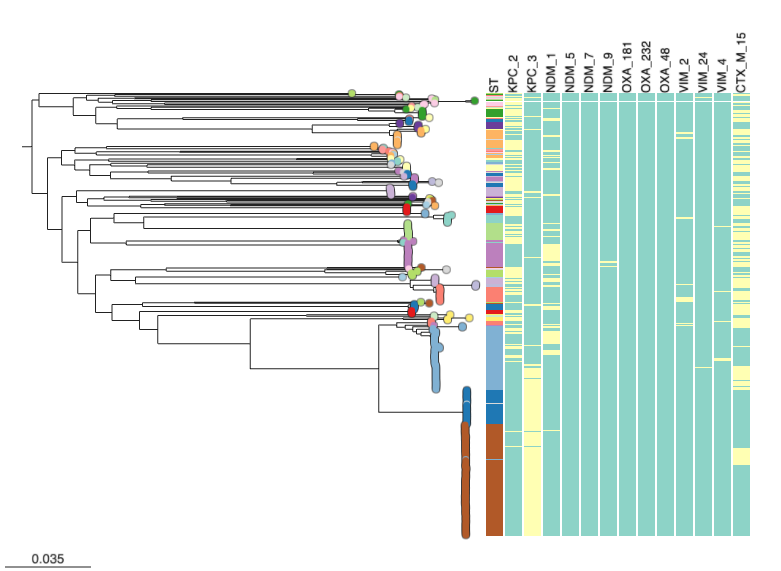
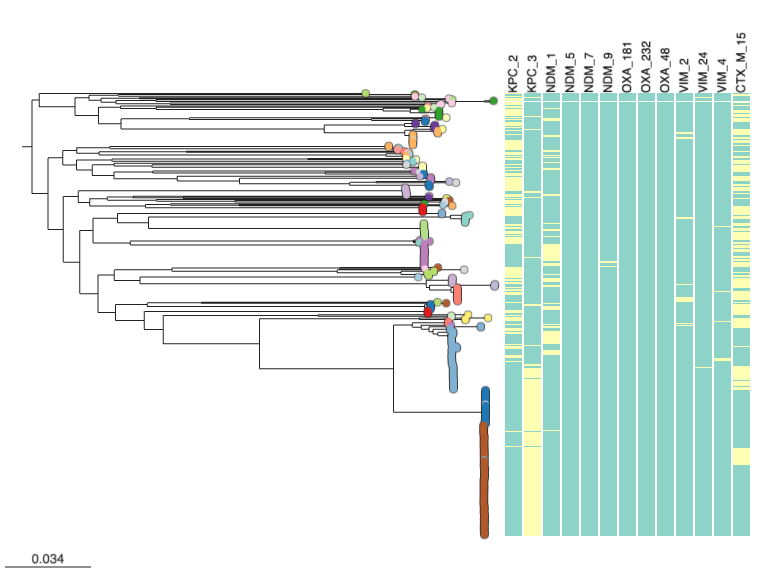
basic upload

diff --git a/docs/an-advanced-tutorial/step-5.md b/docs/an-advanced-tutorial/step-5.md
@@ -6,16 +6,19 @@ authors:
 date: 2024-03-25
 ---
 
+In this final recipe for this section we will revisit aspects of the previous recipes in this section and try to interpret the data. In particular, we will compare the phylogent, the isolates' sequence type, and presence of carbapenamase genes. The final output will be this chart below. 
+
+![Final output](tutorial/tree-gene-st.png)
+
 
 ## Microreact features demonstrated
 
-* Creating a new panel 
-* Creating a standard stacked bar plot 
+* Showing metadata along side a phylogeny
+* Customising metadata blocks
 
 ## Tutorial
 
-
-Go to the "Metadata blocks" and check the ST box.
+You should be using the project we opened in the previous steps. Please see [Creating an editable project](./step-1.md) and follow the instructions if not. Select the "Kpn Colombia" view. Press the icon on the top right of the tree panel. Go to the "Metadata blocks" and check the ST box.
 
 ![Task 5: Which STs are associated with the presence of carbapenamase genes? Step 1: Go to the "Metadata blocks" and check the ST box.](tutorial/metadata_ST.png){width="50%"}
 
@@ -30,3 +33,5 @@ In the tree with added metadata blocks, we can observe a large brown block of is
 On a close look, we can observe that ST258 is associated with the presence of the carbapenamase gene KPC-3.
 
 ![Task 5: Which STs are associated with the presence of carbapenamase genes? On a close look, we can observe that ST258 is associated with the presence of the carbapenamase gene KPC-3.](tutorial/metadata%20STs2.png){width="80%"}
+
+Congratulations! you have completed this advanced tutorial in Microreact. You can continue by browsing the various recipes listed on the right, and trying to recreate them yourself with the example data provided. These will hopefully provide inspiration for possible visualisations you can create with your own data.

diff --git a/docs/an-advanced-tutorial/step-1.md b/docs/an-advanced-tutorial/step-1.md
@@ -6,7 +6,7 @@ authors:
 date: 2024-03-25
 ---
 
-You can take an existing project created by someone else, and copy it for your own investigation. This is a required step to continue with the recipes in this section. and is explained here. 
+You can take an existing project created by someone else, and copy it for your own investigation. This is a required step to continue with the recipes in this section and is explained here. 
 
 ## Microreact features demonstrated
 

diff --git a/docs/an-advanced-tutorial/step-4.md b/docs/an-advanced-tutorial/step-4.md
@@ -15,7 +15,6 @@ We have already [created charts to visualise data](./step-3.md) in our Microreac
 * Showing metadata along side a phylogeny
 * Customising metadata blocks
 
-
 ## Tutorial
 
 You should be using the project we opened in the previous steps. Please see [Creating an editable project](./step-1.md) and follow the instructions if not. Select the "Kpn Colombia" view. Press the icon on the top right of the tree panel.
